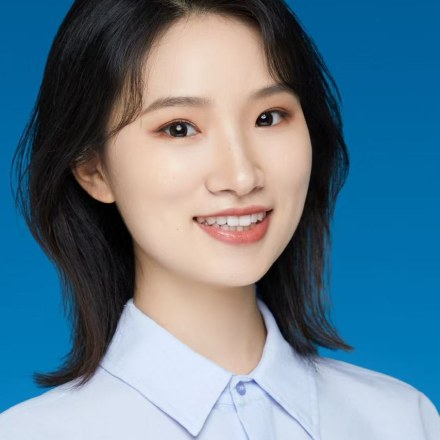
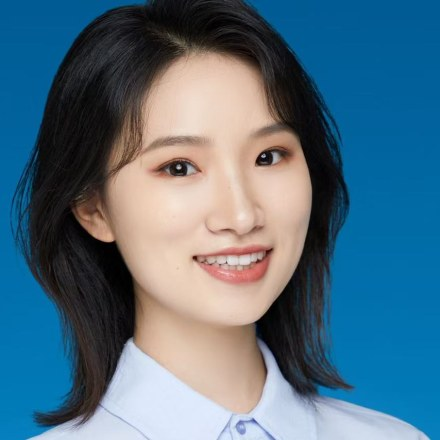
Team: nudge 郭潇 photo crop slightly lower

diff --git a/team.html b/team.html
@@ -226,7 +226,7 @@
         <div class="team-member__role" data-zh="博士后研究员">Postdoctoral Researcher</div>
       </div>
       <div class="team-member">
-        <div class="team-member__avatar"><img src="images/team/guoxiao.jpg?v=3" alt=""></div>
+        <div class="team-member__avatar"><img src="images/team/guoxiao.jpg?v=5" alt=""></div>
         <div class="team-member__name" data-zh="郭潇">Xiao Guo</div>
         <div class="team-member__role" data-zh="博士后研究员">Postdoctoral Researcher</div>
       </div>
